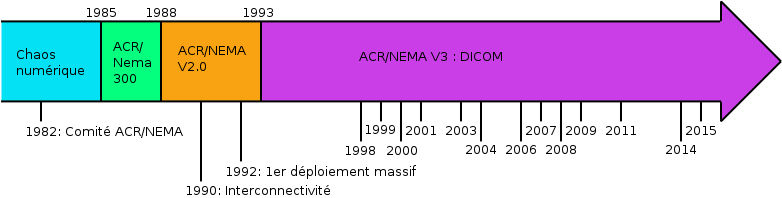
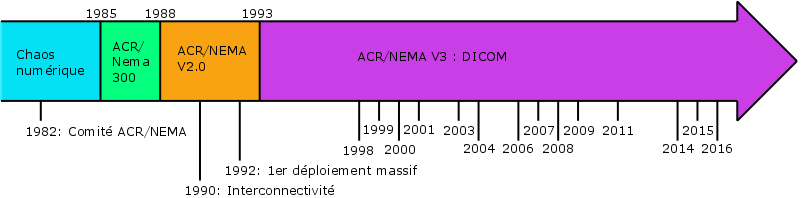
Mise à jour du cours 1 pour la session 2016-2017

diff --git a/dicom-1/sections/polycop-1-notions.tex b/dicom-1/sections/polycop-1-notions.tex
@@ -5,8 +5,8 @@
 		\frametitle{Qu'est-ce que DICOM ?}
 		
 		\begin{block}{\textbf{D}igital \textbf{I}maging and \textbf{Co}mmunications in \textbf{M}edicine}
-			\begin{itemize}
-				\item Digital = Num\'erique
+		\begin{itemize}
+			\item Digital = Num\'erique
 		    	\item Imaging = Imagerie
 		    	\item Communications
 		    	\item Medicine
@@ -15,7 +15,6 @@
 		
 		\begin{block}{Vocabulaire}
 		\begin{itemize}
-			\item Standard $\neq$ Norme
 			\item Modalit\'e
 			\item RIS/PACS
 			\item Instance
@@ -26,18 +25,18 @@
 	
 	\frame
 	{
-		\frametitle{Le standard en d\'etails}
-		Plus de $5300$ pages de documentation r\'eparties en $18$ chapitres.
+		\frametitle{La norme en d\'etails}
+		Plus de $5600$ pages de documentation r\'eparties en $18$ chapitres.
 		
 		\begin{columns}\begin{scriptsize}
 	  	\begin{column}[t]{0.5\linewidth}
 			\begin{itemize}
 				\item DICOM Part 1: Introduction and Overview (34 pages)
 				\item Part 2: Conformance (322 pages)
-				\item Part 3: Information Object Definitions (1338 pages)
-				\item Part 4: Service Class Specifications (404 pages)
+				\item Part 3: Information Object Definitions (1464 pages)
+				\item Part 4: Service Class Specifications (422 pages)
 				\item Part 5: Data Structures and Encoding (138 pages)
-				\item Part 6: Data Dictionary (204 pages)
+				\item Part 6: Data Dictionary (212 pages)
 				\item Part 7: Message Exchange (128 pages)
 				\item Part 8: Network Communication Support for Message Exchange (72 pages)
 %				\item \st{DICOM Part 9: Point-to-Point Communication Support for Message Exchange}
@@ -51,9 +50,9 @@
 %				\item \st{DICOM Part 13: Print Management Point-to-Point Communication Support}
 				\item Part 14: Grayscale Standard Display Function (66 pages)
 				\item Part 15: Security and System Management Profiles (142 pages)
-				\item Part 16: Content Mapping Resource (1150 pages)
-				\item Part 17: Explanatory Information (692 pages)
-				\item Part 18: Web Services (138 pages)
+				\item Part 16: Content Mapping Resource (1242 pages)
+				\item Part 17: Explanatory Information (786 pages)
+				\item Part 18: Web Services (160 pages)
 				\item Part 19: Application Hosting (96 pages)
 				\item Part 20: Imaging Reports using HL7 Clinical Document Architecture (152 pages)
 			\end{itemize}

diff --git a/dicom-1/sections/1-notions.tex b/dicom-1/sections/1-notions.tex
@@ -15,29 +15,28 @@
 		
 		\begin{block}<5->{Vocabulaire}
 		\begin{itemize}
-			\item<6-> Standard $\neq$ Norme
-			\item<7-> Modalit\'e
-			\item<8-> RIS/PACS
-			\item<9-> Instance
-			\item<10-> UID = Unique Identifier
+			\item<6-> Modalit\'e
+			\item<7-> RIS/PACS
+			\item<8-> Instance
+			\item<9-> UID = Unique Identifier
 		\end{itemize}
 		\end{block}
 	}
 	
 	\frame
 	{
-		\frametitle{Le standard en d\'etails}
-		Plus de $5300$ pages de documentation r\'eparties en $18$ chapitres.
+		\frametitle{La norme en d\'etails}
+		Plus de $5600$ pages de documentation r\'eparties en $18$ chapitres.
 		
 		\begin{columns}\begin{scriptsize}
 	  	\begin{column}[t]{0.5\linewidth}
 			\begin{itemize}
 				\item DICOM Part 1: Introduction and Overview (34 pages)
 				\item Part 2: Conformance (322 pages)
-				\item Part 3: Information Object Definitions (1338 pages)
-				\item Part 4: Service Class Specifications (404 pages)
+				\item Part 3: Information Object Definitions (1464 pages)
+				\item Part 4: Service Class Specifications (422 pages)
 				\item Part 5: Data Structures and Encoding (138 pages)
-				\item Part 6: Data Dictionary (204 pages)
+				\item Part 6: Data Dictionary (212 pages)
 				\item Part 7: Message Exchange (128 pages)
 				\item Part 8: Network Communication Support for Message Exchange (72 pages)
 %				\item \st{DICOM Part 9: Point-to-Point Communication Support for Message Exchange}
@@ -51,9 +50,9 @@
 %				\item \st{DICOM Part 13: Print Management Point-to-Point Communication Support}
 				\item Part 14: Grayscale Standard Display Function (66 pages)
 				\item Part 15: Security and System Management Profiles (142 pages)
-				\item Part 16: Content Mapping Resource (1150 pages)
-				\item Part 17: Explanatory Information (692 pages)
-				\item Part 18: Web Services (138 pages)
+				\item Part 16: Content Mapping Resource (1242 pages)
+				\item Part 17: Explanatory Information (786 pages)
+				\item Part 18: Web Services (160 pages)
 				\item Part 19: Application Hosting (96 pages)
 				\item Part 20: Imaging Reports using HL7 Clinical Document Architecture (152 pages)
 			\end{itemize}

diff --git a/dicom-1/sections/6-conclusion.tex b/dicom-1/sections/6-conclusion.tex
@@ -4,9 +4,9 @@
 {
 	\frametitle{Points forts}
 	\begin{itemize}
-		\item Standard complet et \'evolutif :
+		\item Norme compl\`ete et \'evolutive :
 		\begin{itemize}
-			\item<2-> Pas limit\'e \`a la radiologie (oncologie, h\'ematologie, dermatologie, ophtalmologie, cardiologie, ORL,\ldots).
+			\item<2-> Pas limit\'ee \`a la radiologie (oncologie, h\'ematologie, dermatologie, ophtalmologie, cardiologie, ORL,\ldots).
 			\item<3-> Annotations sur les images, compression.
 		\end{itemize}
 		\item<4-> Libert\'e du choix d'achat d'\'equipement car ind\'ependance du fournisseur.
@@ -33,8 +33,8 @@
 {
 	\frametitle{DICOM Conformance}
 	\begin{itemize}
-		\item Le standard pr\'evoit un document "DICOM Conformance Statement" dont le plan et la structure sont pr\'ed\'efinis.
-		\item<2-> Par ce document, le fournisseur pr\'ecise le niveau de conformit\'e de son \'equipement au standard DICOM.
+		\item La norme pr\'evoit un document "DICOM Conformance Statement" dont le plan et la structure sont pr\'ed\'efinis.
+		\item<2-> Par ce document, le fournisseur pr\'ecise le niveau de conformit\'e de son \'equipement \`a la norme DICOM.
 		\begin{itemize}
 			\item<3-> Applicable sur chaque mod\`ele, chaque version.
 			\item<4-> Le document suit un plan pr\'evu dans le standard.
@@ -47,7 +47,7 @@
 {
 	\frametitle{Pi\`eges et difficult\'es}
 	\begin{itemize}
-		\item Divergences/erreurs d'interpr\'etation du standard.
+		\item Divergences/erreurs d'interpr\'etation de la norme.
 		\item<2-> DICOM autorise le stockage d'informations sp\'ecifiques.
 		\begin{itemize}
 			\item<3-> Risque: faire du propri\'etaire sous le label DICOM
@@ -84,14 +84,13 @@
 {
 	\frametitle{Synth\`ese}
 	\begin{itemize}
-		\item<1-> Standard incontournable.
+		\item<1-> Norme incontournable.
 		\item<2-> Tr\`es largement et rapidement adopt\'ee par la majorit\'e des acteurs.
 		\item<3-> Plus large couverture que l'imagerie radiologique
 		\begin{itemize}
 			\item<4-> Rapport structur\'e.
 			\item<5-> Ouverture \`a toutes les imageries.
 		\end{itemize}
-		\item<6-> Standard \'evolutif.
+		\item<6-> Norme \'evolutive.
 	\end{itemize}
 }
-

diff --git a/dicom-1/sections/polycop-6-conclusion.tex b/dicom-1/sections/polycop-6-conclusion.tex
@@ -4,9 +4,9 @@
 {
 	\frametitle{Points forts}
 	\begin{itemize}
-		\item Standard complet et \'evolutif :
+		\item Norme compl\`ete et \'evolutive :
 		\begin{itemize}
-			\item Pas limit\'e \`a la radiologie (oncologie, h\'ematologie, dermatologie, ophtalmologie, cardiologie, ORL,\ldots).
+			\item Pas limit\'ee \`a la radiologie (oncologie, h\'ematologie, dermatologie, ophtalmologie, cardiologie, ORL,\ldots).
 			\item Annotations sur les images, compression.
 		\end{itemize}
 		\item Libert\'e du choix d'achat d'\'equipement car ind\'ependance du fournisseur.
@@ -33,8 +33,8 @@
 {
 	\frametitle{DICOM Conformance}
 	\begin{itemize}
-		\item Le standard pr\'evoit un document "DICOM Conformance Statement" dont le plan et la structure sont pr\'ed\'efinis.
-		\item Par ce document, le fournisseur pr\'ecise le niveau de conformit\'e de son \'equipement au standard DICOM.
+		\item La norme pr\'evoit un document "DICOM Conformance Statement" dont le plan et la structure sont pr\'ed\'efinis.
+		\item Par ce document, le fournisseur pr\'ecise le niveau de conformit\'e de son \'equipement \`a la norme DICOM.
 		\begin{itemize}
 			\item Applicable sur chaque mod\`ele, chaque version.
 			\item Le document suit un plan pr\'evu dans le standard.
@@ -47,7 +47,7 @@
 {
 	\frametitle{Pi\`eges et difficult\'es}
 	\begin{itemize}
-		\item Divergences/erreurs d'interpr\'etation du standard.
+		\item Divergences/erreurs d'interpr\'etation de la norme.
 		\item DICOM autorise le stockage d'informations sp\'ecifiques.
 		\begin{itemize}
 			\item Risque: faire du propri\'etaire sous le label DICOM
@@ -84,13 +84,13 @@
 {
 	\frametitle{Synth\`ese}
 	\begin{itemize}
-		\item Standard incontournable.
+		\item Norme incontournable.
 		\item Tr\`es largement et rapidement adopt\'ee par la majorit\'e des acteurs.
 		\item Plus large couverture que l'imagerie radiologique
 		\begin{itemize}
 			\item Rapport structur\'e.
 			\item Ouverture \`a toutes les imageries.
 		\end{itemize}
-		\item Standard \'evolutif.
+		\item Norme \'evolutive.
 	\end{itemize}
 }

diff --git a/dicom-1/sections/polycop-2-histoire.tex b/dicom-1/sections/polycop-2-histoire.tex
@@ -28,6 +28,8 @@
 		\begin{itemize}
 			\item 1\up{\`ere} version ACR/NEMA 300 en 1985 : peu accept\'e car vague et contenant des incoh\'erences.
 			\item 2\up{\`eme} version en 1988 : transmission des images par le connecteur mat\'eriel EIA-485, adopt\'e par quelques constructeurs.
+
+		        \includegraphics[width=.15\linewidth]{./figures/eia-485.png}
 			\item 3\up{\`eme} version en 1993 : ind\'ependance du connecteur, donc support TCP.
 		\end{itemize}
 	}
@@ -48,10 +50,9 @@
 	{
 		\frametitle{DICOM aujourd'hui}
 		\begin{itemize}
-			\item Standard accept\'e mondialement.
-			\item Actuellement en version $2015$ : on parle des versions par leur ann\'ee (officiellement, toujours en version 3, ou PS3).
+			\item Norme accept\'ee mondialement.
+			\item Actuellement en version $2016$d : on parle des versions par leur ann\'ee (officiellement, toujours en version 3, ou PS3).
 			\item Diversit\'e des \'equipements support\'es : RX, CT, IRM, US, PET, SPECT, Angio, ECG, BTO, \ldots
-			\item Adopt\'e par de nombreux constructeurs : GE, Siemens, Philips, Toshiba, Hologic, \ldots
+			\item Adopt\'ee par de nombreux constructeurs : GE, Siemens, Philips, Toshiba, Hologic, \ldots
 		\end{itemize}
 	}
-

diff --git a/dicom-1/DICOM-1.tex b/dicom-1/DICOM-1.tex
@@ -13,7 +13,7 @@
 \subtitle{Cours HEdS Gen\`eve}
 \author[B. Deville]{Beno\^it Deville - Analyste en informatique}
 \institute[HUG]{H\^opitaux Universitaires de Gen\`eve}
-\date{2016}
+\date{Session 2016-2017}
 
 \begin{document}
 
@@ -36,18 +36,20 @@
       \end{frame}
 }
 
-\input{sections/1-notions}
-\input{sections/2-histoire}
-\input{sections/3-principes}
-\input{sections/4-objets}
-\input{sections/6-conclusion}
-\input{sections/7-representation}
-\input{sections/8-annexes}
+%\input{sections/1-notions}
+%\input{sections/2-histoire}
+%\input{sections/3-principes}
+%\input{sections/4-objets}
+%\input{sections/6-conclusion}
+%\input{sections/5-exercices}
+%\input{sections/7-representation}
+%\input{sections/8-annexes}
 
-%\input{sections/polycop-1-notions}
-%\input{sections/polycop-2-histoire}
-%\input{sections/polycop-3-principes}
-%\input{sections/polycop-4-objets}
-%\input{sections/polycop-6-conclusion}
+\input{sections/polycop-1-notions}
+\input{sections/polycop-2-histoire}
+\input{sections/polycop-3-principes}
+\input{sections/polycop-4-objets}
+\input{sections/polycop-6-conclusion}
+\input{sections/polycop-5-exercices}
 
 \end{document}

diff --git a/dicom-1/sections/2-histoire.tex b/dicom-1/sections/2-histoire.tex
@@ -65,10 +65,9 @@
 	{
 		\frametitle{DICOM aujourd'hui}
 		\begin{itemize}
-			\item<1-> Standard accept\'e mondialement.
-			\item<2-> Actuellement en version $2015$ : on parle des versions par leur ann\'ee (officiellement, toujours en version 3, ou PS3).
+			\item<1-> Norme accept\'ee mondialement.
+			\item<2-> Actuellement en version $2016$d : on parle des versions par leur ann\'ee (officiellement, toujours en version 3, ou PS3).
 			\item<3-> Diversit\'e des \'equipements support\'es : RX, CT, IRM, US, PET, SPECT, Angio, ECG, BTO, \ldots
-			\item<4-> Adopt\'e par de nombreux constructeurs : GE, Siemens, Philips, Toshiba, Hologic, \ldots
+			\item<4-> Adopt\'ee par de nombreux constructeurs : GE, Siemens, Philips, Toshiba, Hologic, \ldots
 		\end{itemize}
 	}
-

diff --git a/dicom-1/sections/polycop-5-exercices.tex b/dicom-1/sections/polycop-5-exercices.tex
@@ -7,7 +7,7 @@
 			\begin{block}{Exercice 1}
 				Trouver l'ensemble des attributs obligatoires pour une IRM.
 
-				Il faudra regarder le chapitre 3 du standard : \url{http://dicom.nema.org/standard.html}
+				Il faudra regarder le chapitre 3 de la norme : \url{http://dicom.nema.org/standard.html}
 			\end{block}
 
 			\begin{block}{Exercice 2}

diff --git a/dicom-1/sections/5-exercices.tex b/dicom-1/sections/5-exercices.tex
@@ -9,7 +9,7 @@
 			\begin{block}{Exercice 1}
 				Trouver l'ensemble des attributs obligatoires pour une IRM.
 
-				Il faudra regarder le chapitre 3 du standard : \url{http://dicom.nema.org/standard.html}
+				Il faudra regarder le chapitre 3 de la norme : \url{http://dicom.nema.org/standard.html}
 			\end{block}
 		}
 
